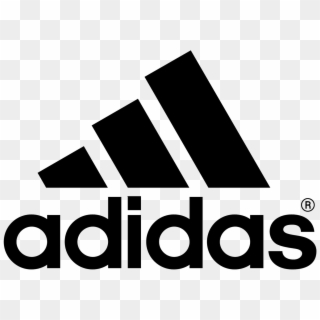
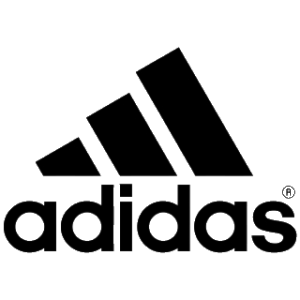
added brand hover effects and changed to png

diff --git a/pages/brands/brands.css b/pages/brands/brands.css
@@ -14,7 +14,7 @@
 .brandsSearchContainer h3 {
     grid-column: 2/3;
     text-align: center;
-    font-size: 30px;
+    font-size: 35px;
 }
 .brandsSearchContainer>.brandsSearch {
     grid-column: 3/4;
@@ -79,16 +79,35 @@
         flex-wrap: wrap;
         margin: 30px 50px;
         justify-content: space-between;
+        /* background-color: red; */
     }
         .brandsList>div{
+            width: 250px;
+            height: 250px;
+            margin: 15px;
             display: flex;
             flex-direction: column;
             align-items: center;
             justify-content: center;
+            /* background-color: rebeccapurple; */
+            transition: 0.3s;
         }
             .brandsList>div>img{
-                width: 250px;
+                width: 180px;
+                /* background-color: yellow; */
             }
             .brandsList>div>h4{
                 font-size: 28px;
+                opacity: 0.8;
+                font-weight: 100;
+            }
+            .brandsList>div>img:hover{
+                cursor: pointer;
+                transform: scale(1.02);
+                background-color: rgba(153, 153, 153, 0.089);
+            }
+            .brandsList>div>h4:hover {
+                cursor: pointer;
+                opacity: 1;
+                font-weight: 400;
             }

diff --git a/pages/brands/brands.html b/pages/brands/brands.html
@@ -64,26 +64,7 @@
             </section>
             <section class="brandsContainer">
                 <ul class="brandsList">
-                    <!-- <div>
-                        <img src="/img/brands/1.png" alt="">
-                        <h4>Adidas</h4>
-                    </div>
-                    <div>
-                        <img src="/img/brands/1.png" alt="">
-                        <h4>Adidas</h4>
-                    </div>
-                    <div>
-                        <img src="/img/brands/1.png" alt="">
-                        <h4>Adidas</h4>
-                    </div>
-                    <div>
-                        <img src="/img/brands/1.png" alt="">
-                        <h4>Adidas</h4>
-                    </div>
-                    <div>
-                        <img src="/img/brands/1.png" alt="">
-                        <h4>Adidas</h4>
-                    </div> -->
+
                 </ul>
             </section>
         </div>
